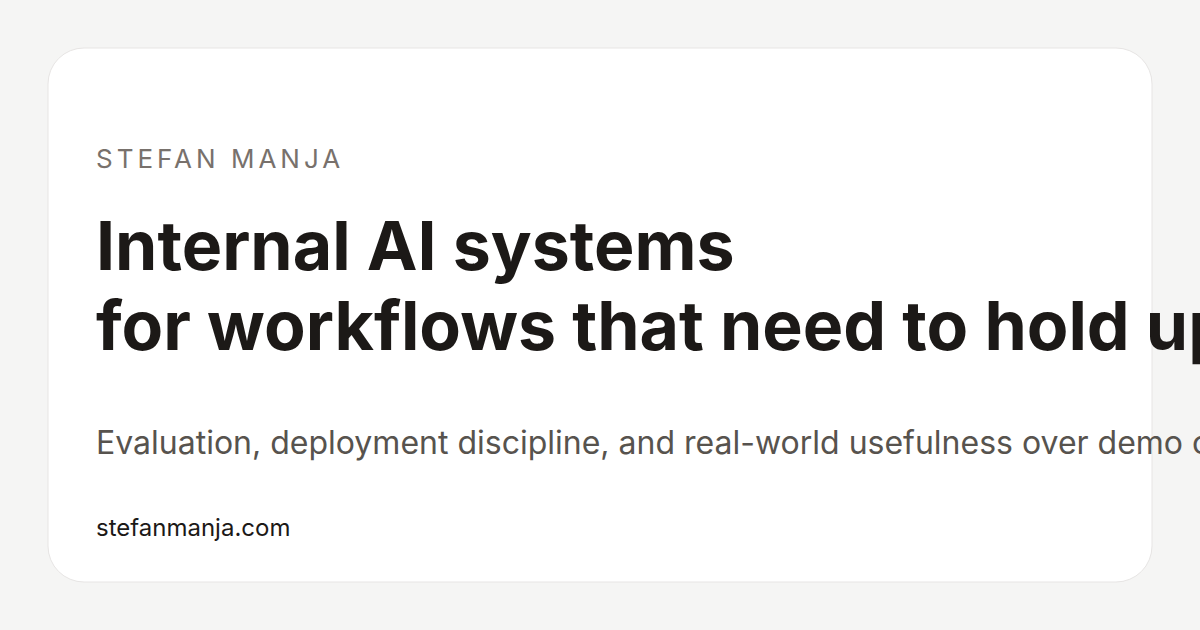
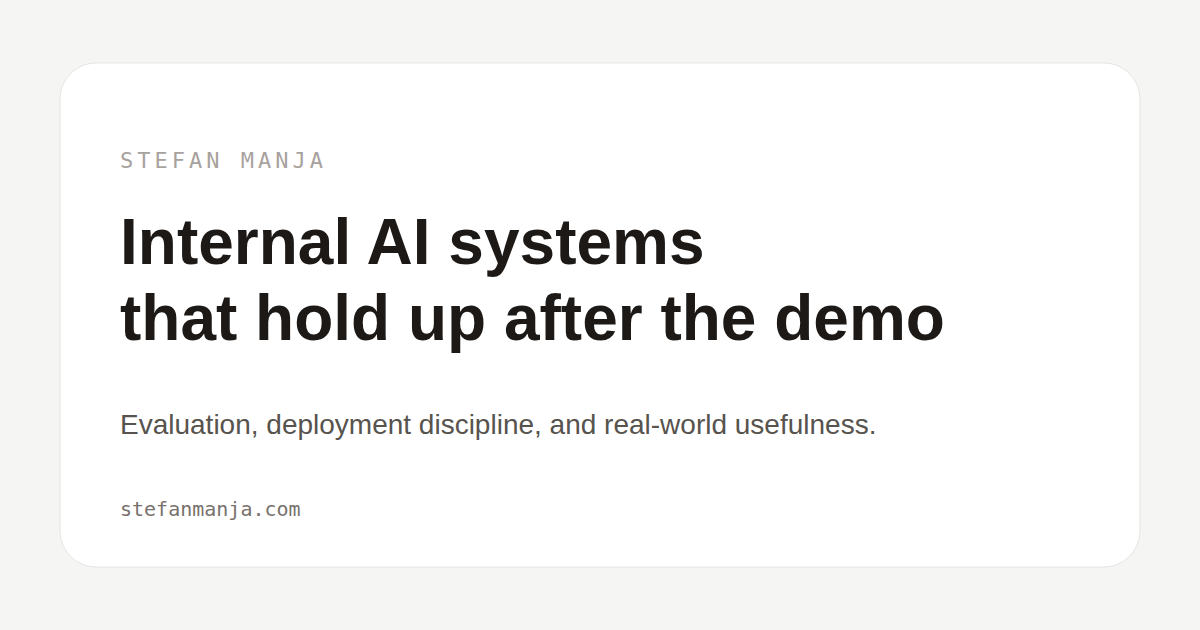
add per-page OG images for LinkedIn Featured previews

diff --git a/src/content.config.ts b/src/content.config.ts
@@ -12,6 +12,7 @@ const caseStudies = defineCollection({
     featured: z.boolean().default(false),
     services: z.array(z.enum(['Build', 'Productionize', 'Advise'])).default([]),
     technologies: z.array(z.string()).default([]),
+    ogImage: z.string().optional(),
   }),
 });
 

diff --git a/src/content/case-studies/delta-credit-risk-workflow.md b/src/content/case-studies/delta-credit-risk-workflow.md
@@ -14,6 +14,7 @@ technologies:
   - LLM APIs
   - Workflow design
   - Internal data context
+ogImage: "/og-credit-risk.png"
 ---
 
 ## Context
